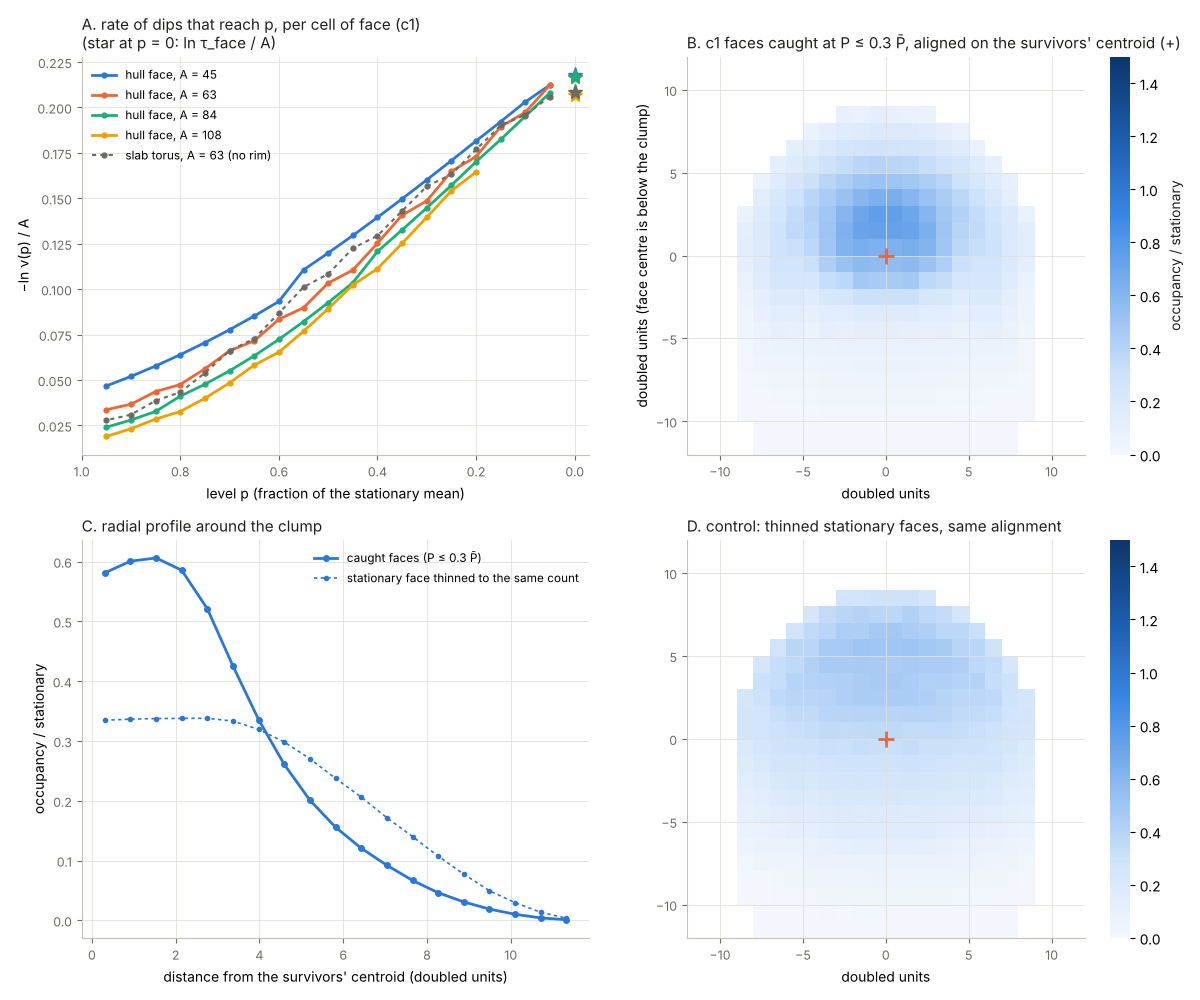
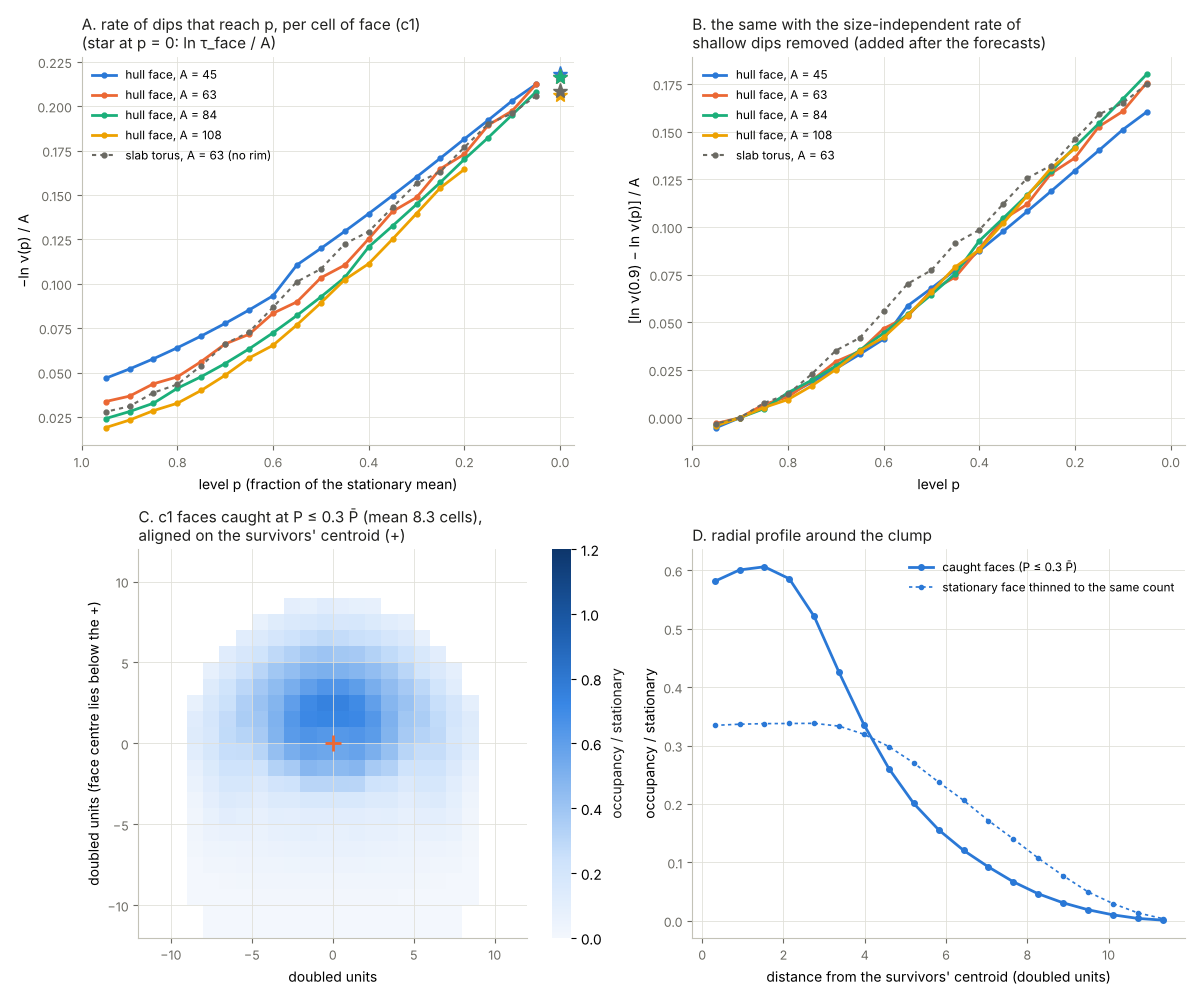
dying faces round 3: dip rates across sizes, depleted-face patch, refill, csz holds away from the tied edge, slab; forecasts scored
Claude-Session: https://claude.ai/code/session_019L788JanYoS8q1kKh6fDt6

diff --git a/research/dying/README.md b/research/dying/README.md
@@ -300,3 +300,105 @@ bash research/dying/round2.sh 1 & bash research/dying/round2.sh 2 & wait   # bui
 python3 research/dying/round2.py        # A-D tables, data/r2_*.csv, research/figures/dying_excursions.png (~2 min)
 python3 research/dying/round2_lowp.py   # the low-P stationary control for B (added after the forecasts)
 ```
+
+# Round 3: one curve across sizes? What a depleted face looks like (2026-11-15)
+
+Forecasts and definitions: `PREDICTIONS.md`, "Round 3" (committed 27890b4 with `ex3.c`, before any round-3 run).
+Figure: `research/figures/dying_ratefunction.png`. Tables: `data/r3_excursions.csv` (ν, q by level for every
+size and the slab), `data/r3_clump_profile.csv`.
+
+## Short answer
+
+- **[measured] Once the rate of shallow dips is taken out, the dip curve is one curve per cell of face for
+  p ≥ 0.4; the raw curve is not.** −ln ν(0.5)/A is 0.120, 0.103, 0.093, 0.089 at A = 45, 63, 84, 108, so T1a fails.
+  The cause is a size-independent rate of shallow dips: ln ν(0.9) = −2.34, −2.31, −2.35, −2.51, about one dip every
+  ten generations per face whatever its size. Measured from there, [ln ν(0.9) − ln ν(0.5)]/A = 0.068, 0.067, 0.065,
+  0.066, equal within 3%. Deeper the curves fan slightly: at p = 0.3 they read 0.108, 0.112, 0.117, 0.116; at p = 0.1
+  they read 0.151, 0.161, 0.167 (figure panel B). `round3_persite.py` was added after the forecasts.
+- **[measured] The tail has a price per live cell, and that price does not depend on size.** An unweighted line
+  (the lead's fit) over 0.1 ≤ p ≤ 0.45 has slope 0.437, 0.499, 0.506, 0.508 per live cell at A = 45, 63, 84, 108
+  (max residual 0.03–0.22). The pre-registered fit is weighted by counts, so the curved shallow end dominates it. It
+  gives 0.431, 0.537, 0.566, 0.432 (A = 108 over 0.2–0.45 only), and on it T1b fails (0.566/0.499 = 1.13).
+- **[conjectured] What it points to at p = 0.** Per site, without the shallow-dip constant, the straight tail
+  extrapolated to p = 0 reaches 0.172, 0.188, 0.193, 0.194 at A = 45 → 108, levelling off near 0.19–0.20. The true
+  end point, [ln ν(0.9) + ln τ_face]/A, is 0.166, 0.180, 0.189 at A = 45, 63, 84 (no deaths to speak of at 108). The
+  increments of ln τ between sizes give the known c of 0.21–0.22. So the stationary dips point to a per-site price
+  near 0.19–0.20, below c, and still drifting up with size. They do not yet pin c; they would at sizes where the last
+  ten per cent (p < 0.1) is measured, which needs faces that die.
+- **[measured] A depleted face is a single loose patch, not a uniform haze, and not a full-density clump.** Take c1
+  faces caught at P ≤ 0.3 P̄ (mean 8.3 live cells; 419,556 faces).
+  - Around the survivors' centroid, occupancy is 0.58–0.61 of stationary out to about 2.5 doubled units (just over
+    a cube).
+  - It falls to 0.20 by 5 units, 0.09 by 7, and is nearly empty beyond 9.
+  - A stationary face thinned at random to the same count gives 0.34 flat, then a slow fall from geometry alone.
+  - So: one patch about two cubes across at 60% of the usual density, in an otherwise emptied face (panels C, D).
+    The patch sits on the rim side of its centroid more often than on the centre side (panel C). I have not
+    quantified that.
+- **[measured] A thin face refills from its patch, and a thin csz face holds on away from its tied edge.**
+  - 99.4% of the first ten births after the bottom of a dip are within two cells of a survivor, against 68.4% if
+    births fell at random on empty cells.
+  - In csz, the stationary-corrected centroid of a caught face is nearest the tied edge in 22.3% of faces. Random
+    thinning of stationary csz faces gives 29.9% under the same correction; the correction leaves a bias, so
+    compare 22.3 with 29.9 rather than with 33.3.
+
+## Forecasts, scored
+
+| | said | found [measured] | |
+|---|---|---|---|
+| T1a | −ln ν(0.5)/A at 84 within 5% of 63 | 0.0926 vs 0.1034 (ratio 0.896) | **failed** (by 10%; not the 15% the lead set as "against") |
+| T1b | tail slope at A = 84 within 7% of 0.499 | pre-registered weighted fit 0.566 ± 0.024 (×1.13) | **failed**; the unweighted fit gives 0.506 (×1.01) |
+| T2 | inner occupancy ≥ 0.8 of stationary and below 0.2 within 2 rows | inner 0.513; shells 0.421, **0.184**, 0.080 | **failed** (plateau at about 0.6, not 0.8; the edge clause holds) |
+| T3 | csz nearest the tied edge < 25% | 0.223 ± 0.001 (control 0.299) | **held** |
+| T4 | ≥ 70% of first ten births within 2 cells of the bottom's survivors | 0.994 (random 0.684) | **held** |
+| "against the reading" | T1a off by > 15%; T2 falls smoothly | 10%; T2 has a plateau and an edge | neither met |
+| K9 (mine) | T1a holds | 0.896 | **failed** |
+| K10 (mine) | slope at 84 more than 7% below 0.499 | 0.566 (weighted), 0.506 (unweighted) | **failed** |
+| K11 (mine) | T2 no plateau of 0.8 | 0.513 | held |
+| K12 (mine) | T4 excess over random < 0.10 | 0.31 | **failed** |
+
+## The slab (no forecast)
+
+`hex_4_1_c1` is a face torus of area 63 (8 layers, two faces, no rim). It was validated bit-exact against the
+engine for 1,500 generations (`validate.py 1500 hex_4_1_c1` → ALL OK), with seed 55 and 400,000 generations.
+- Stationary: P̄ = 32.57, σ_P = 4.94.
+- ln τ_face = 13.13 ± 0.04 (814 deaths), against 13.64 for the hull face of the same area.
+- Its shallow dips are slightly costlier per cell than the hull face's ([ln ν(0.9) − ln ν(0.5)]/A = 0.077 against
+  0.067), but its tail is cheaper: 0.427 per live cell against 0.499. At A = 63 the rim-free face dies sooner
+  overall.
+- This system has no transverse-firewall test (the torus gives no triples), so a life could in principle continue
+  past a firewall; firewall lives were not counted.
+
+## What each number rests on
+
+- `ex3.c` reproduces `ex.c`'s lives file, excursion table and P histogram exactly on a test run. All six production
+  lives files are byte-identical to `sy`'s (`round3.sh` checks each).
+- Every one of the 419,694 c1 deep-excursion records passes the popcount checks: first state ≤ 9 cells; minimum
+  equal to the recorded one; recovered records end ≥ P̄, dead records end at 0. These checks test the face-state
+  extraction against the independent bit-sliced count.
+- P̄ at R = 9 and 15 come from `sd.c` null runs (21.67 and 55.14, σ_P 4.52 and 6.73). The time-mean P over the
+  exposure agrees (21.60, 55.19).
+- ln τ_face from these runs: 9.811 (A = 45), 13.644 ± 0.013 (63), 18.20 ± 0.13 (84, 61 deaths; the GPU's 18.141).
+  A = 108 had one death.
+
+## Not checked (round 3)
+
+- One seed per size. A = 108 reaches only p ≥ 0.2 with 20 or more excursions. The deep tail (p < 0.1), where the
+  per-site curves still differ, is measured only where faces die (A ≤ 84).
+- Which fit of the tail is "the" slope. The weighted and unweighted fits differ by 7–13% at A ≥ 63; the line is not
+  straight to better than 0.2 in ln ν.
+- T2's patch: whether it sits at the rim or in the interior was seen in the aligned map, not measured. Nor was its
+  shape in csz or D2h, or how its density changes with depth.
+- T3's correction (1/ρ weights) leaves a bias of its own (control 0.299, not 0.333).
+- T4's "within two cells" is nearly forced by the rule: a birth needs four live neighbours. The 0.6% of births
+  further away are fed from the layer beneath or by cells born since the bottom; they were not separated.
+- The slab is one torus shape at one size. The shape dependence of periodic faces (CLAIMS SH1–SH9) is known to be
+  large.
+
+## Reproduce (round 3)
+
+```sh
+bash research/dying/round3.sh 1 & bash research/dying/round3.sh 2 & wait   # null runs for P̄, ex3 runs, lives checks (~20 min, 2 cores)
+python3 research/dying/round3.py          # T1-T4, data/r3_*.csv, research/figures/dying_ratefunction.png (~3 min)
+python3 research/dying/round3_persite.py  # unweighted slopes and the per-site curve without the shallow-dip constant (added afterwards)
+python3 research/theory/symmetric/validate.py 1500 hex_4_1_c1             # the slab against the engine
+```
